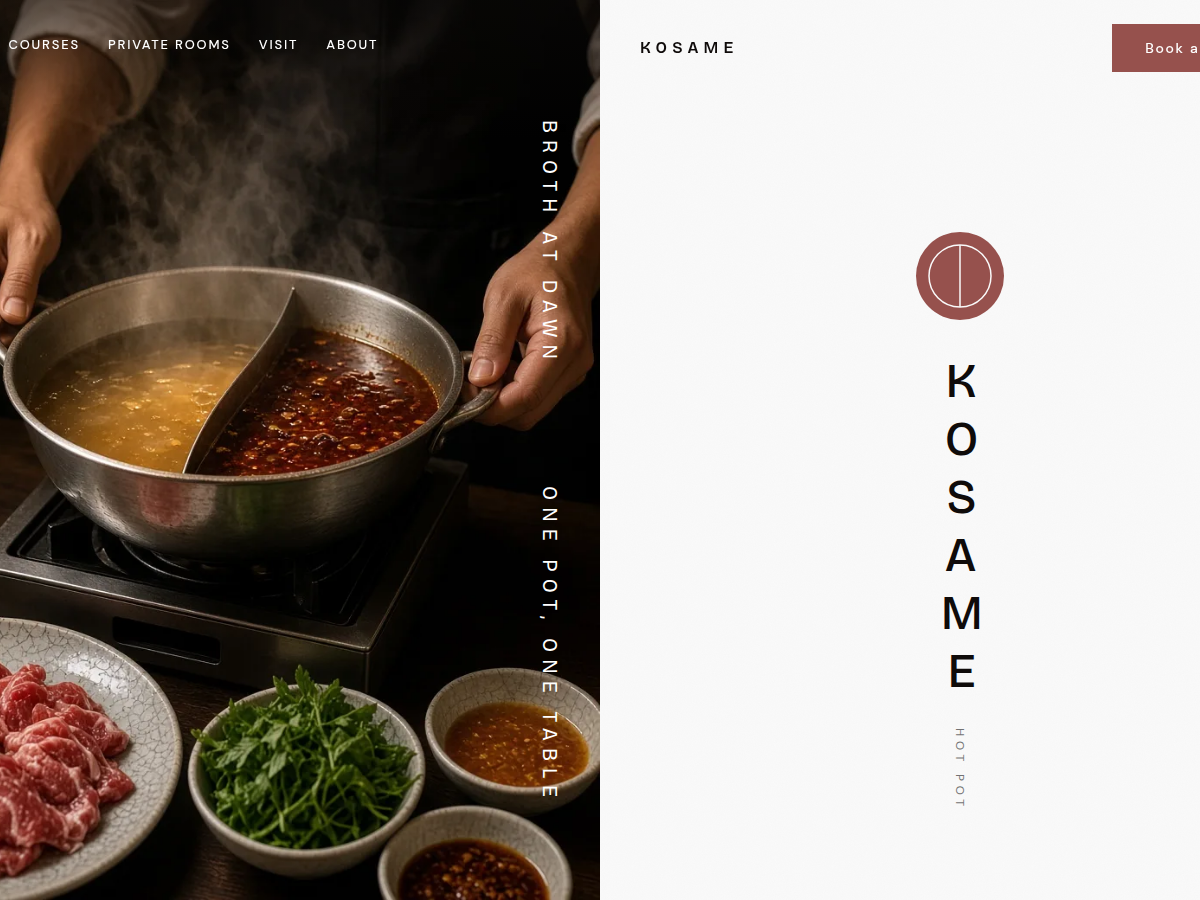
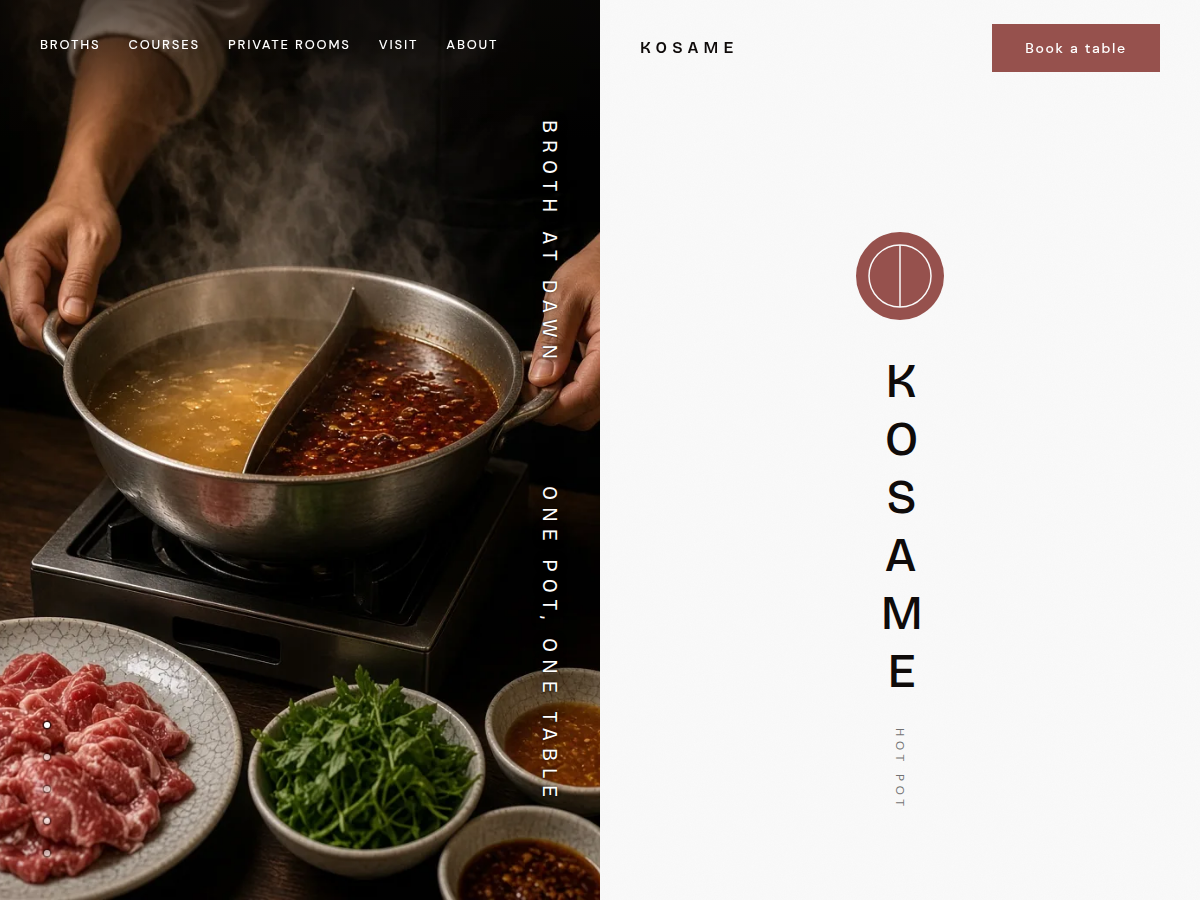
kosame-hotpot: stage 2 fix: centre visit wash, readable stage dots and phrases, GBP prices, own burner wording, README

diff --git a/themes/kosame-hotpot/style.css b/themes/kosame-hotpot/style.css
@@ -101,13 +101,13 @@ a { text-decoration: none; text-underline-offset: .3em; }
 .ks-stage__slide img { width: 100%; height: 100%; object-fit: cover; object-position: center 60%; display: block; }
 .ks-stage__scrim { position: absolute; top: 0; left: 0; right: 0; height: 140px; background: linear-gradient(180deg, rgba(11, 9, 8, .55) 0, rgba(11, 9, 8, 0) 140px); pointer-events: none; }
 .ks-stage__dots { position: absolute; left: 44px; bottom: 44px; display: flex; flex-direction: column; gap: 26px; }
-.ks-dot { width: 6px; height: 6px; border-radius: 50%; background: #fff; opacity: .4; display: block; }
+.ks-dot { width: 6px; height: 6px; border-radius: 50%; background: #fff; opacity: .6; display: block; box-shadow: 0 0 0 1.5px rgba(11, 9, 8, .6); }
 .ks-dot--1 { opacity: 1; }
-.ks-stage__phrase { position: absolute; right: 40px; margin: 0; color: #fff; writing-mode: vertical-rl; text-orientation: mixed; text-transform: uppercase; font: 400 1.25rem/1 var(--ks-display); letter-spacing: .35em; }
+.ks-stage__phrase { position: absolute; right: 40px; margin: 0; color: #fff; text-shadow: 0 0 10px rgba(11, 9, 8, .75), 0 0 2px rgba(11, 9, 8, .8); writing-mode: vertical-rl; text-orientation: mixed; text-transform: uppercase; font: 400 1.25rem/1 var(--ks-display); letter-spacing: .35em; }
 .ks-stage__phrase--a { top: 120px; }
 .ks-stage__phrase--b { bottom: 96px; }
 @keyframes ks-stage { 0% { opacity: 0; } 5.71% { opacity: 1; } 20% { opacity: 1; } 25.71% { opacity: 0; } 100% { opacity: 0; } }
-@keyframes ks-dot { 0% { opacity: .4; } 5.71% { opacity: 1; } 20% { opacity: 1; } 25.71% { opacity: .4; } 100% { opacity: .4; } }
+@keyframes ks-dot { 0% { opacity: .6; } 5.71% { opacity: 1; } 20% { opacity: 1; } 25.71% { opacity: .6; } 100% { opacity: .6; } }
 @keyframes ks-fade { from { opacity: 0; } to { opacity: 1; } }
 @media (prefers-reduced-motion: no-preference) {
 	html.sp-js:not(.sp-no-motion) .ks-stage__more .ks-stage__slide { animation: ks-stage 17.5s linear infinite both; }
@@ -127,7 +127,7 @@ a { text-decoration: none; text-underline-offset: .3em; }
 .ks-col { padding-bottom: 160px; margin: 0; }
 .ks-col > * { width: min(590px, calc(100% - 64px)); margin-left: auto; margin-right: auto; }
 .ks-col > .ks-wash { width: 100%; }
-.ks-wash > * { width: min(590px, calc(100% - 64px)); margin-left: auto; margin-right: auto; }
+.ks-col > .ks-wash > *, .ks-wash > .ks-sec__body { width: min(590px, calc(100% - 64px)); margin-left: auto; margin-right: auto; }
 
 /* ---------- seal (KV 5) ---------- */
 .ks-seal { min-height: 100vh; min-height: 100svh; box-sizing: border-box; display: flex; flex-direction: column; align-items: center; padding-top: 232px; }
@@ -301,7 +301,7 @@ a { text-decoration: none; text-underline-offset: .3em; }
 	.ks-stage { position: relative; height: 52vh; height: 52svh; min-height: 360px; }
 	.ks-stage__dots { left: 20px; bottom: 20px; flex-direction: row; gap: 14px; }
 	.ks-stage__phrase { display: none; }
-	.ks-col > *, .ks-wash > * { width: calc(100% - 48px); }
+	.ks-col > *, .ks-wash > * { width: calc(100% - 48px); margin-left: auto; margin-right: auto; }
 	.ks-col { padding-bottom: 96px; }
 	.ks-seal { min-height: 0; padding: 32px 0 0; }
 	.ks-seal__mark { width: 56px; height: 56px; margin-bottom: 20px; }

diff --git a/themes/kosame-hotpot/inc/i18n/en.php b/themes/kosame-hotpot/inc/i18n/en.php
@@ -116,32 +116,32 @@ return array(
 	'ppl_r6' => 'Booking desk',
 	'pr_beef' => 'Beef set',
 	'pr_beef_d' => 'Brisket and chuck slices, vegetable platter',
-	'pr_beef_p' => '€46',
+	'pr_beef_p' => '£46',
 	'pr_extra' => 'Extra plate of marbled beef',
 	'pr_extra_d' => '150 g',
-	'pr_extra_p' => '€18',
+	'pr_extra_p' => '£18',
 	'pr_finish' => 'The finish',
 	'pr_finish_d' => 'Rice porridge with egg, or noodles, cooked in your broth',
-	'pr_finish_p' => '€6',
+	'pr_finish_p' => '£6',
 	'pr_garden' => 'Garden set',
 	'pr_garden_d' => 'Seasonal vegetables, tofu, mushrooms, hand-cut noodles',
-	'pr_garden_p' => '€32',
+	'pr_garden_p' => '£32',
 	'pr_marbled' => 'Marbled beef set',
 	'pr_marbled_d' => 'Marbled sirloin and rib slices, vegetable platter',
-	'pr_marbled_p' => '€64',
+	'pr_marbled_p' => '£64',
 	'pr_pork' => 'Pork set',
 	'pr_pork_d' => 'Shoulder and belly slices, vegetable platter',
-	'pr_pork_p' => '€38',
+	'pr_pork_p' => '£38',
 	'pr_seafood' => 'Seafood set',
 	'pr_seafood_d' => 'Prawns, mussels, white fish, squid, vegetable platter',
-	'pr_seafood_p' => '€52',
+	'pr_seafood_p' => '£52',
 	'rooms_p1' => 'Upstairs from the main room, three private dining rooms provide a secluded setting for shared meals, family celebrations, and longer evening gatherings. Each room features dedicated table burners, generous timber tables, and attentive service tailored to the pace of your group.',
 	'rooms_p2' => 'Room One suits two to four guests with one split pot. Room Two seats six to eight with two pots. Room Three seats ten to fourteen along a single long table with three pots.',
 	'seal_h1' => 'KOSAME',
 	'seal_line' => 'Broth on at 05:30. Doors at 17:00.',
 	'seal_place' => 'Harbour Row',
 	'seal_sub' => 'Hot pot',
-	'story_lead' => 'Every table at Kosame is set with its own dedicated induction burner and a split pot, giving every party the quiet freedom to simmer their own meal at their own pace.',
+	'story_lead' => 'Every table at Kosame is set with its own own burner and a split pot, giving every party the quiet freedom to simmer their own meal at their own pace.',
 	'story_p1' => 'Our kitchen works to a single daily rhythm focused on broth. The stockpots go on at half past five each morning, extracting clean, deep flavours from chicken, pork bone, kelp, and Sichuan aromatics over many undisturbed hours before guests arrive.',
 	'story_p2' => 'When you sit, the simmering pot arrives immediately alongside fresh vegetables, hand-cut noodles, and chilled sliced meats, offering a calm and unhurried dinner where nothing is rushed.',
 	'vh_broths' => 'BROTHS',

diff --git a/themes/kosame-hotpot/brand/design-spec.md b/themes/kosame-hotpot/brand/design-spec.md
@@ -259,20 +259,20 @@ Reduced motion, `?sp-static`, no JS and the editor: no movement. Acceptance: `ch
 ## 9. Fixed facts (identical on every page and in all five locales; brand.md must copy these)
 
 - **Name**: Kosame Hot Pot ("kosame" = light rain; it rained on the opening night). **Founded** 2016 by **Mara Lindqvist** and **Daniel Cho**. **Address**: 14 Harbour Row, Wellmouth (fictional). **Phone** +44 1632 960 527 (booking desk, Tue–Sun 14:00–22:00). **Email** table@kosame-hotpot.example (every mailto).
-- **Room**: 18 tables for 1–6 guests (64 seats) in the dining room, each with its own induction burner and pot; **3 private rooms** upstairs.
+- **Room**: 18 tables for 1–6 guests (64 seats) in the dining room, each with its own burner and pot; **3 private rooms** upstairs.
 - **Broths (4, all finished by dawn)**: **Clear** — chicken and kelp, 6 hours · **Red** — beef fat, dried chilli and Sichuan pepper, 4 hours · **White** — pork bone, 12 hours (started the evening before) · **Forest** — mushroom and kelp, vegetarian, 3 hours. Any two in one split pot at no extra cost.
 - **Price list (7 items, per person; home §5 and Courses identical)**:
   | Item | What's in it | Price |
   |---|---|---|
-  | Garden set | seasonal vegetables, tofu, mushrooms, hand-cut noodles (vegetarian with Forest broth) | **€32** |
-  | Pork set | shoulder and belly slices, vegetable platter | **€38** |
-  | Beef set | brisket and chuck slices, vegetable platter | **€46** |
-  | Seafood set | prawns, mussels, white fish, squid, vegetable platter | **€52** |
-  | Marbled beef set | marbled sirloin and rib slices, vegetable platter | **€64** |
-  | Extra plate of marbled beef | 150 g | **€18** |
-  | The finish | rice porridge with egg, or noodles, cooked in your broth | **€6** |
+  | Garden set | seasonal vegetables, tofu, mushrooms, hand-cut noodles (vegetarian with Forest broth) | **£32** |
+  | Pork set | shoulder and belly slices, vegetable platter | **£38** |
+  | Beef set | brisket and chuck slices, vegetable platter | **£46** |
+  | Seafood set | prawns, mussels, white fish, squid, vegetable platter | **£52** |
+  | Marbled beef set | marbled sirloin and rib slices, vegetable platter | **£64** |
+  | Extra plate of marbled beef | 150 g | **£18** |
+  | The finish | rice porridge with egg, or noodles, cooked in your broth | **£6** |
   Every set: split pot, vegetable platter, sauce bar. Dinner: two hours at the table.
-- **Private rooms (3)**: **Room One** 2–4 guests, 1 pot, room fee **€30** · **Room Two** 6–8 guests, 2 pots, **€50** · **Room Three** 10–14 guests, 3 pots on one long table, **€80**. Fee per booking; every guest takes a set; request ≥3 days ahead; free cancellation until **72 hours** before.
+- **Private rooms (3)**: **Room One** 2–4 guests, 1 pot, room fee **£30** · **Room Two** 6–8 guests, 2 pots, **£50** · **Room Three** 10–14 guests, 3 pots on one long table, **£80**. Fee per booking; every guest takes a set; request ≥3 days ahead; free cancellation until **72 hours** before.
 - **Hours**: dinner **Tue–Sun 17:00–22:30** (last order 21:30) · lunch **Sat–Sun 12:00–15:00** (last order 14:00) · **closed Monday** · booking desk Tue–Sun 14:00–22:00.
 - **Book a table (the single way, 4 steps)**: 1 choose the date, time, number of guests and the dining room or a private room · 2 send the booking request (form on Book a table, or the email it opens) · 3 we confirm by email **within 3 hours** during desk hours (requests after 22:00 are answered from 14:00 the next opening day) · 4 arrive; the table is held **15 minutes** and your pot is on the burner as you sit. Free cancellation until **24 hours** before (private rooms 72 hours). 7 or more guests → a private room.
 - **A day at Kosame (daily routine)**: 05:30 broths on · 07:30 market delivery at the back door · 10:00 meat cut and plated cold · 12:00 lunch (Sat–Sun) · 14:00 booking desk opens · 16:30 burners tested, pots set · 17:00 doors · 22:30 close; broths strained, the white broth started for tomorrow. (Home §7 shows 8 rows: 05:30, 07:30, 10:00, 14:00, 16:30, 17:00, 21:30 last order, 22:30.)
@@ -374,7 +374,7 @@ Copy `pipeline/assets/forms/shippress-forms.php` unchanged to `inc/`, its CSS an
 4. 390×844: header 64px; stage in flow ≈52svh with horizontal dots and no phrases; then seal + horizontal H1; **no vertical writing, no absolute labels, no overlap**, no horizontal overflow.
 5. §2 booking frame right after the seal: "Reservations" + 1px underline, full-width azuki "Book a table" button 530×88, two notes, four 3px azuki lines (drawn in with motion; fully drawn static).
 6. §3–§10 each open with a centred vertical header (label · 1px rule · heading) at ≥782; horizontal <782.
-7. §5 price table: 7 rows matching §9 (€32 / €38 / €46 / €52 / €64 / €18 / €6), full column width, price column nowrap right, not clipped at 800 and 1280; stacked <782.
+7. §5 price table: 7 rows matching §9 (£32 / £38 / £46 / £52 / £64 / £18 / £6), full column width, price column nowrap right, not clipped at 800 and 1280; stacked <782.
 8. §6 three white link boxes with 2px `#DBDABE` border and long arrows; more buttons with corner brackets in §3, §4, §9.
 9. §7 daily routine (8 rows, 05:30 … 22:30) and narrative ¶; §8 P11 + 7 named people; §9 3 notice rows (text only); §10 wash gradient `#E8D8D8`→`#FFF`, P12 590×200, info table 498px (Tue–Sun 17:00–22:30, Sat–Sun 12:00–15:00, closed Monday, desk 14:00–22:00, phone, address).
 10. §11 closing booking frame; §12 full-width P13 band with the 4.25rem statement bottom-left and visible parallax; §13 dark letter with the newsletter slot (email + submit + notice without plugins; no reveal); footer `#E7E7E7` with page index.

diff --git a/themes/kosame-hotpot/brand.md b/themes/kosame-hotpot/brand.md
@@ -32,7 +32,7 @@ In 2023 three private rooms opened upstairs for celebrations, family meals and l
 The daily routine of the kitchen and floor: 05:30 broths on · 07:30 market delivery at the back door · 10:00 meat cut and plated cold · 12:00 lunch service on Saturday and Sunday · 14:00 booking desk opens · 16:30 burners tested, pots set · 17:00 doors · 21:30 last order · 22:30 close; broths strained and the white broth started for tomorrow.
 
 ## The room
-18 tables for 1–6 guests (64 seats), each with its own induction burner and pot. Three private rooms upstairs.
+18 tables for 1–6 guests (64 seats), each with its own burner and pot. Three private rooms upstairs.
 
 ## Broths (four, all finished by dawn)
 - **Clear**: chicken and kelp, 6 hours.
@@ -43,18 +43,18 @@ Any two in one split pot at no extra cost.
 
 ## Courses (EUR, per person)
 Every set: split pot, vegetable platter, sauce bar. Dinner is two hours at the table.
-- Garden set €32 (seasonal vegetables, tofu, mushrooms, hand-cut noodles; vegetarian with Forest broth)
-- Pork set €38 (shoulder and belly slices)
-- Beef set €46 (brisket and chuck slices)
-- Seafood set €52 (prawns, mussels, white fish, squid)
-- Marbled beef set €64 (marbled sirloin and rib slices)
-- Extra plate of marbled beef €18 (150 g)
-- The finish €6 (rice porridge with egg, or noodles, cooked in your broth)
+- Garden set £32 (seasonal vegetables, tofu, mushrooms, hand-cut noodles; vegetarian with Forest broth)
+- Pork set £38 (shoulder and belly slices)
+- Beef set £46 (brisket and chuck slices)
+- Seafood set £52 (prawns, mussels, white fish, squid)
+- Marbled beef set £64 (marbled sirloin and rib slices)
+- Extra plate of marbled beef £18 (150 g)
+- The finish £6 (rice porridge with egg, or noodles, cooked in your broth)
 
 ## Private rooms
-- **Room One**: 2–4 guests, 1 pot, room fee €30.
-- **Room Two**: 6–8 guests, 2 pots, room fee €50.
-- **Room Three**: 10–14 guests, 3 pots on one long table, room fee €80.
+- **Room One**: 2–4 guests, 1 pot, room fee £30.
+- **Room Two**: 6–8 guests, 2 pots, room fee £50.
+- **Room Three**: 10–14 guests, 3 pots on one long table, room fee £80.
 Fee per booking; every guest takes a set; request at least 3 days ahead; free cancellation until 72 hours before.
 
 ## Hours

diff --git a/themes/kosame-hotpot/README.md b/themes/kosame-hotpot/README.md
@@ -10,3 +10,9 @@ A quiet block theme for hot pot, shabu-shabu and sukiyaki restaurants that take 
 - **Forms**: the shippress form slot for contact and newsletter (works without a plugin).
 
 Patterns are in `patterns/` (prefix `kosame-hotpot/`), the home page is the `front` pattern. Design notes: `brand/design-spec.md`.
+
+## Notes
+
+- Fonts: Bricolage Grotesque (display) and DM Sans (text), both OFL-1.1, bundled as Latin variable subsets in `assets/fonts/`.
+- Demo content is a fictional UK-style restaurant: prices in pounds (£) and a +44 1632 number.
+- Photographs are generated low-key images; replace them from the editor.
